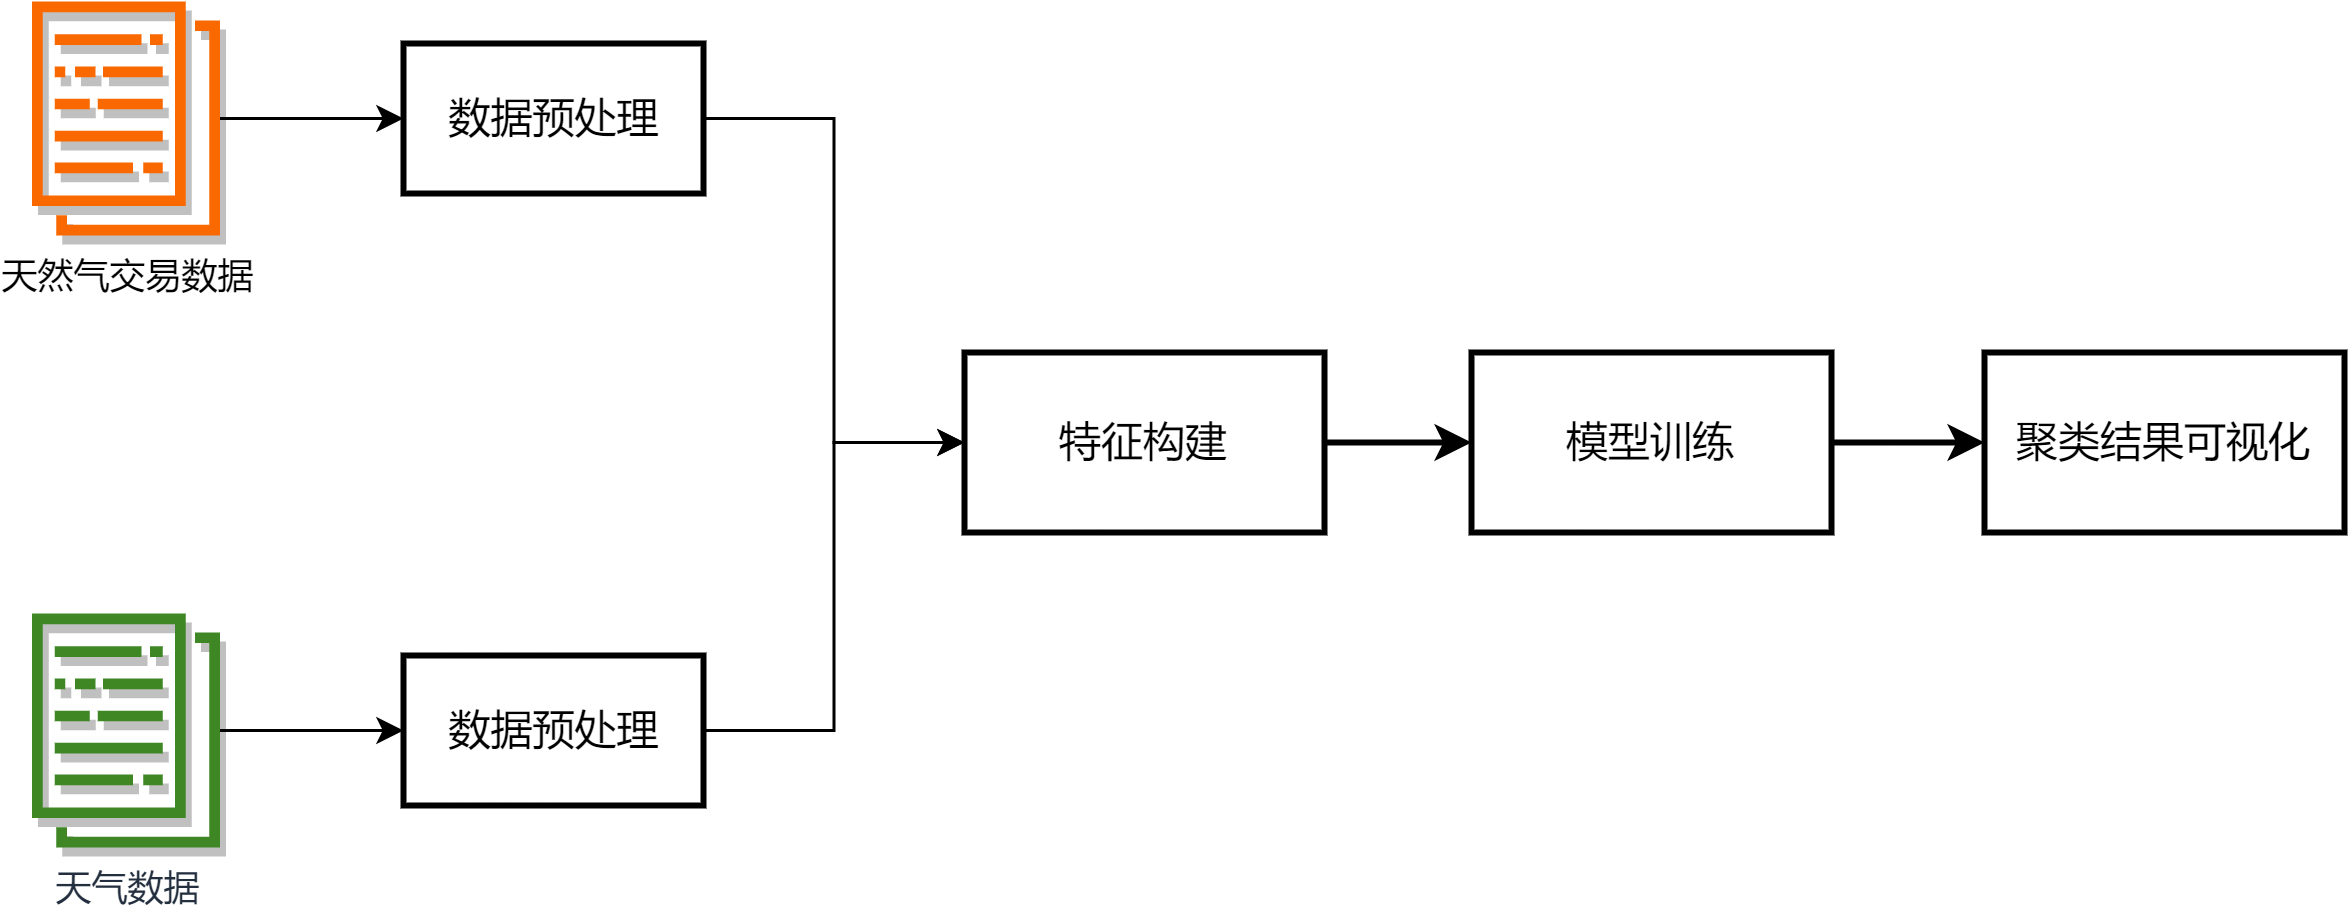
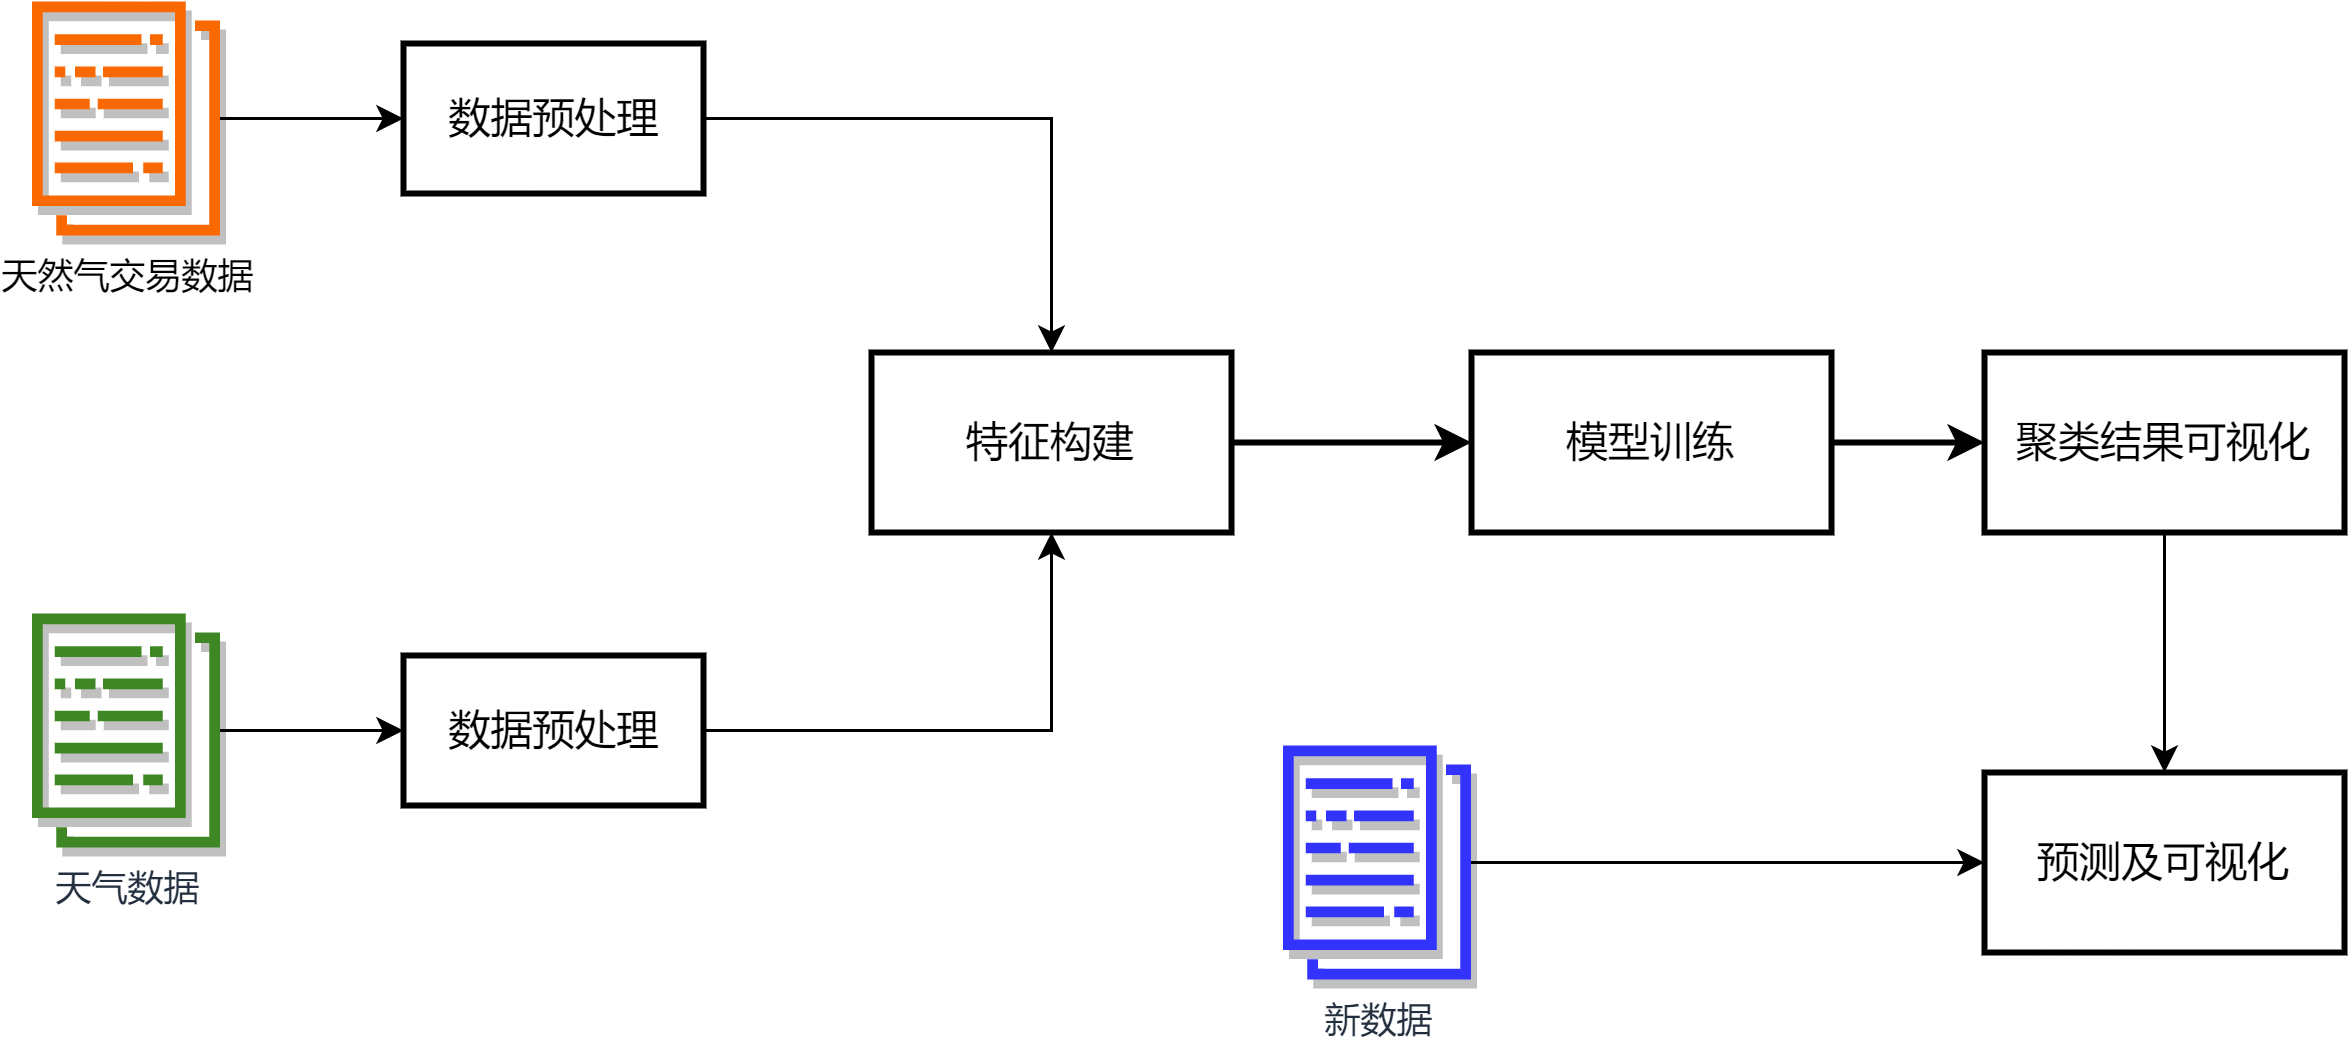
readme

diff --git a/README.md b/README.md
@@ -21,6 +21,7 @@
       - [6.2.2 示例](#622-示例)
   - [7. 预测](#7-预测)
     - [7.1 模块功能](#71-模块功能)
+      - [7.1.1 运行说明](#711-运行说明)
     - [7.2 运行方式](#72-运行方式)
       - [7.2.1 参数说明](#721-参数说明)
       - [7.2.2 示例](#722-示例)
@@ -94,7 +95,7 @@ pip install -r requirements.txt
 
 ## 3. 项目总体框架
 
-项目总体分为四个模块，包括[数据预处理](#4-数据预处理)、[特征构建](#5-构建特征)、[模型训练和结果可视化](#6-模型训练及可视化)。每个模块的详细内容和运行方式可以在对应章节中查看。用户可以使用自己的数据根据每个模块对应章节介绍的运行方式按照框架的顺序依次运行。**注意：每个模块都可单独运行，但前提是它依赖的前面的模块已经运行过。**
+项目总体分为四个模块，包括[数据预处理](#4-数据预处理)、[特征构建](#5-构建特征)、[模型训练及可视化](#6-模型训练及可视化)和[预测及可视化](#7-预测)。每个模块的详细内容和运行方式可以在对应章节中查看。用户可以使用自己的数据根据每个模块对应章节介绍的运行方式按照框架的顺序依次运行。**注意：每个模块都可单独运行，但前提是它依赖的前面的模块已经运行过。**
 
 ![framework](/assets/framework.png)
 ## 4. 数据预处理
@@ -212,6 +213,27 @@ ipython src/models/kmeans/train_model.py
 本模块利用已训练的模型和数据对新数据进行预测，用户可根据示例准备新的天气数据和基本面数据进行预测，预测结果将以可视化的方式保存至文件。
 
 ![predict](/assets/predict.png)
+
+#### 7.1.1 运行说明
+
+- 数据输入：
+    a. 新天气数据：是指定气象站发布的一日天气数据；
+    b. 新基本面数据：是发布的基本面一日的数据；
+- 输入方式：
+  - 以文件的方式传入运行，用户可参考 data\raw\newdata 目录下 newecmen.csv 和 newgnsd.csv 的示例文件内容分别建造要预测的天气数据和基本面数据；
+- 输入选择：
+  - 本模块也支持只使用天气或者基本面其中一种数据进行预测， 如只使用一种，将另外的数据路径设置为 None ；
+
+**注意：对于两种数据有如下要求：**
+
+1. 天气数据和基本面数据首行必须是列名。
+2. 天气数据必须有包含以下列，列名必须保持不变且内容不能为空，其他列没有或者值为空：
+   1. INIT_DATE
+   2. INIT_HOUR
+   3. PARAM
+   4. VALUE
+3. 基本面数据必须包含以下列，列名必须保持不变且内容不能为空，其他列可没有或者值为空：
+   1. date
 
 ### 7.2 运行方式
 
